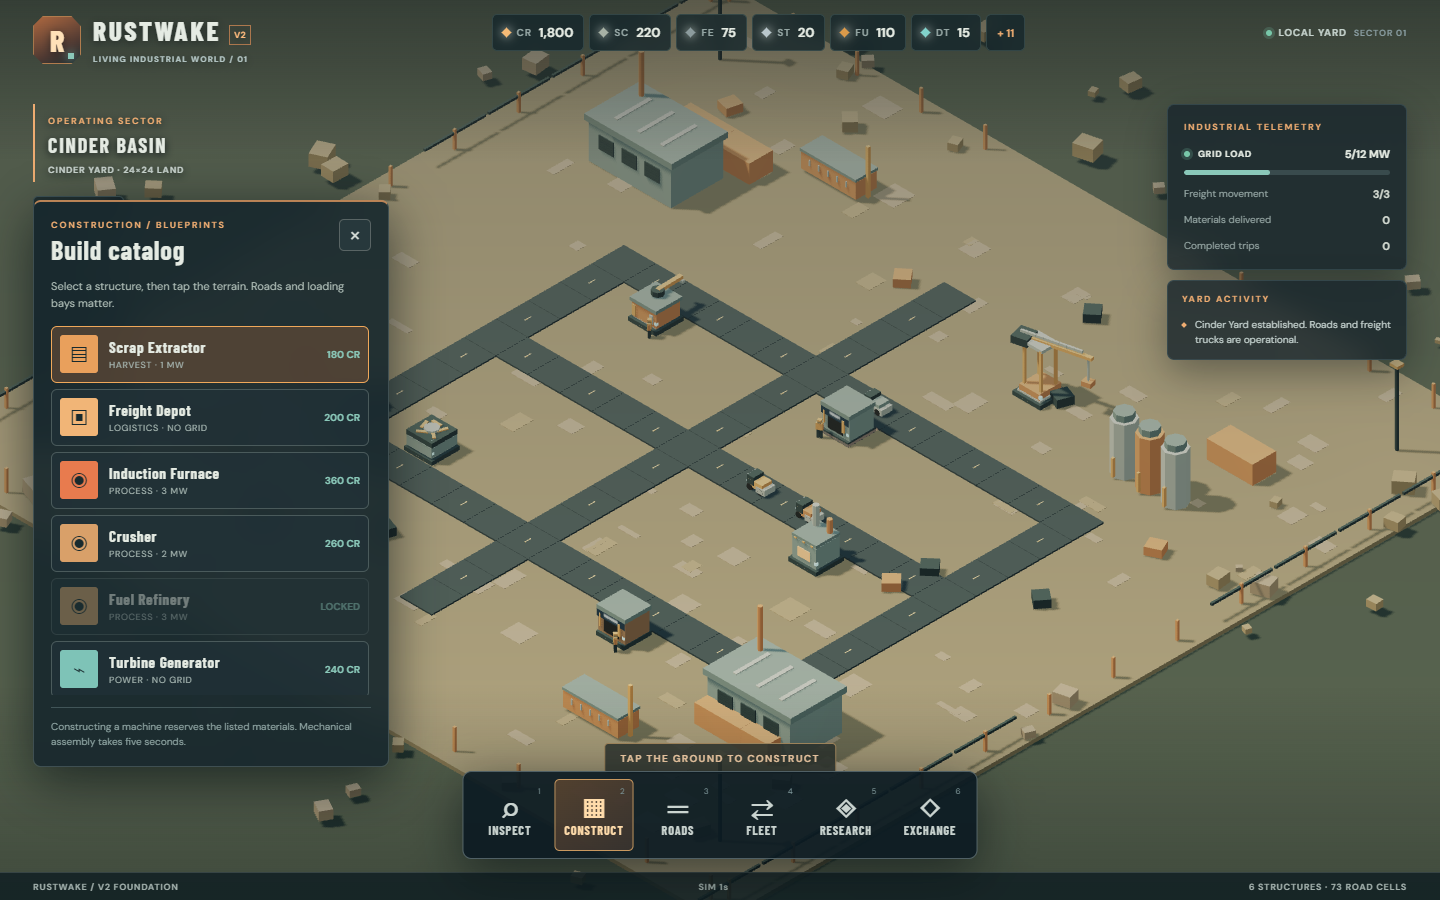
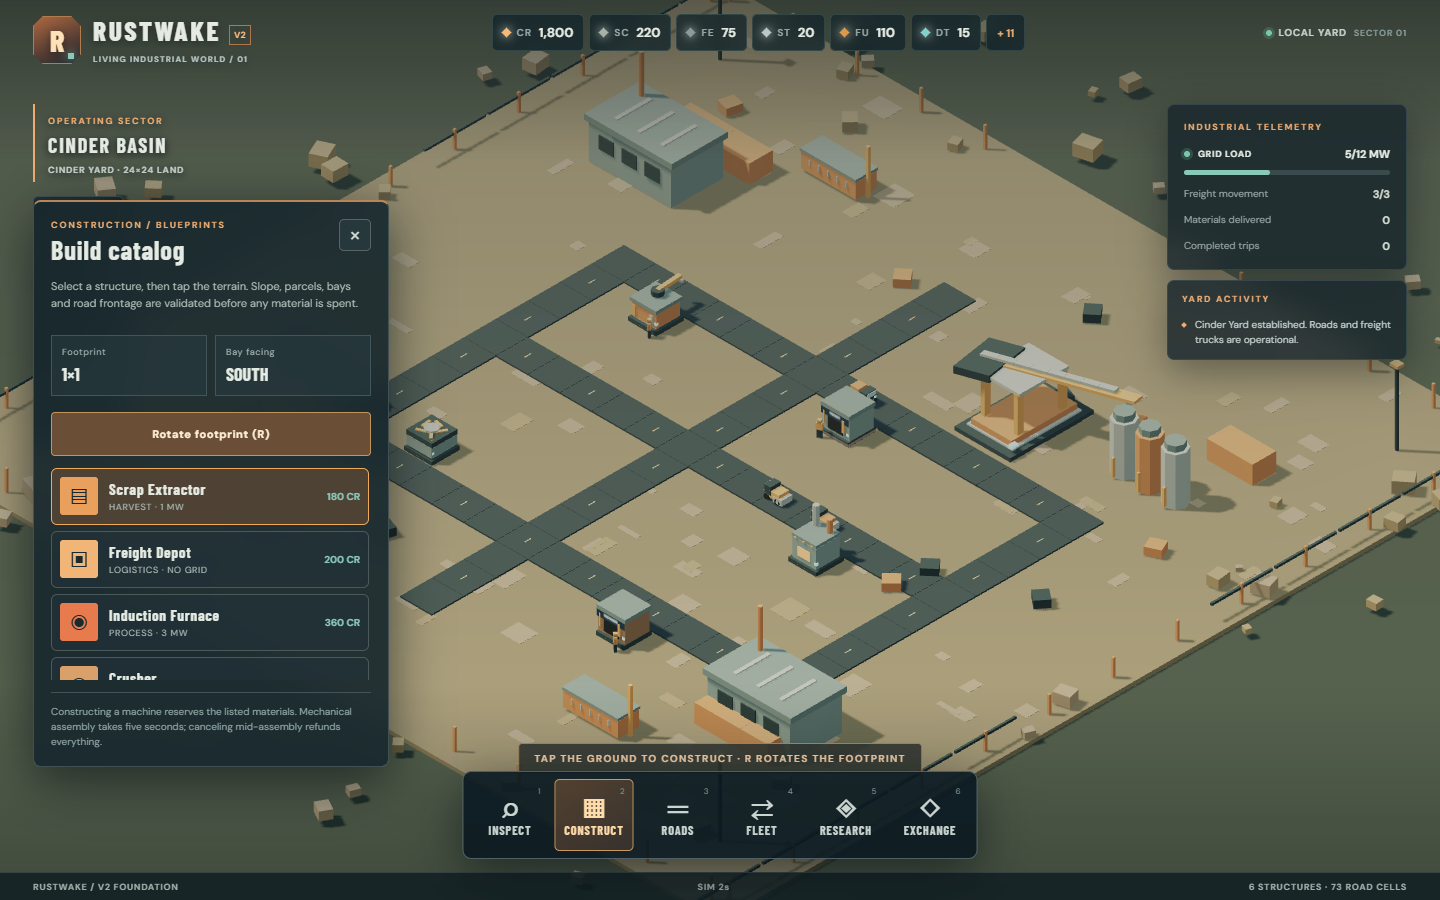
fix(347): integrate #370 footprint scaling into voxel schema after rebase onto e8240a87
Schema geometry fields now describe authored local (unscaled) space; logical
footprints mirror content registry footprintOf() (crane 2x3). Tests measure
local geometry and assert the exact worldFootprint() group transform for all
12 machines x 4 rotations, preserving #528 occupancy and #307 camera intact.
Full suite 48/48; capture-art + capture-v2 green (stamps matched, construction
proof conserved); evidence refreshed.

diff --git a/src/voxelSchema.js b/src/voxelSchema.js
@@ -9,10 +9,13 @@
 //    replaces the playable world with an image and never imports archive/legacy code.
 //
 // Coordinate contract (matches src/camera.js): right-handed, X east, Y up, Z south.
-// A building occupies `footprint.cells` logical cells of CELL world units each; its
-// group origin sits at the cell center on Y=0. Frontage faces +Z (south) toward the
-// loading bay. Pivots are named THREE.Group nodes ("pivot:<id>") owned by the machine.
-import {CELL, WORLD_SIZE, BUILDINGS} from "./content.js";
+// A building occupies `footprint.cells` logical cells of CELL world units each, taken
+// from the content registry footprintOf() (#370, merged in main e8240a87). Per #370 the
+// group sits at the footprint center on Y=0 and is scaled by base w/d; ALL geometry
+// fields below (bounds, pick, pivots, bay) describe the AUTHORED LOCAL (unscaled)
+// geometry, so world envelope = local envelope × footprint.scale. Frontage faces +Z
+// (south) toward the loading bay. Pivots are named THREE.Group nodes ("pivot:<id>").
+import {CELL, WORLD_SIZE, BUILDINGS, footprintOf} from "./content.js";
 
 export const SCHEMA_ID = "rustwake.voxel.geometry.v1";
 export const PARCEL = Object.freeze({cells: [WORLD_SIZE, WORLD_SIZE], world: [WORLD_SIZE * CELL, WORLD_SIZE * CELL]});
@@ -79,7 +82,7 @@ const foot = (height, extra = {}) => {
   };
 };
 
-export const MACHINES = Object.freeze({
+const RAW_MACHINES = {
   salvager: foot(2.285, {
     pickHeight: 2.95,
     bounds: {width: PAD, height: 2.285, depth: PAD},
@@ -215,7 +218,17 @@ export const MACHINES = Object.freeze({
     ],
     budget: {maxMeshes: 24, maxTriangles: 450}
   })
-});
+};
+
+// #370 integration: logical footprints come from the content registry (crane is 2×3;
+// every other initial machine is 1×1). footprint.scale is the base w/d group scale
+// applied by world.js makeBuilding(); geometry fields stay in authored local space.
+export const MACHINES = Object.freeze(Object.fromEntries(Object.entries(RAW_MACHINES).map(([type, d]) => {
+  const fp = footprintOf(type);
+  return [type, Object.freeze({...d, footprint: Object.freeze({
+    ...d.footprint, cells: [fp.w, fp.d], world: [fp.w * CELL, fp.d * CELL], scale: [fp.w, fp.d]
+  })})];
+})));
 
 export const machineDescriptor = (type) => MACHINES[type] || null;
 export const cellCenter = (i) => (i - WORLD_SIZE / 2 + 0.5) * CELL;
@@ -239,16 +252,17 @@ export function validateMachine(type, desc = MACHINES[type]) {
   if (!b || !isNum(b.width) || !isNum(b.height) || !isNum(b.depth) || b.width <= 0 || b.height <= 0 || b.depth <= 0)
     fail(errors, type, "bounds must be positive width/height/depth");
   else {
-    if (b.width > f.world[0] + 1e-9 || b.depth > f.world[1] + 1e-9)
-      fail(errors, type, "static geometry overhangs the logical cell (animated reach is declared separately)");
+    if (b.width > CELL + 1e-9 || b.depth > CELL + 1e-9)
+      fail(errors, type, "static geometry overhangs the authored base cell (animated reach is declared separately)");
     const ratio = b.height / SCALE_REFERENCES.worker.height;
     if (ratio < SCALE_REFERENCES.machineHeightRatio.min || ratio > SCALE_REFERENCES.machineHeightRatio.max)
       fail(errors, type, "height " + b.height + " outside worker scale ratio " + JSON.stringify(SCALE_REFERENCES.machineHeightRatio));
   }
   if (!p || !Array.isArray(p.size) || !Array.isArray(p.center)) fail(errors, type, "pick bounds missing");
   else {
-    if (p.size[0] < f.world[0] - 1e-9 || p.size[2] < f.world[1] - 1e-9)
-      fail(errors, type, "pick bounds smaller than the cell footprint (inaccessible on touch)");
+    // Pick is authored local; the #370 group scale stretches it over the full footprint.
+    if (p.size[0] < CELL - 1e-9 || p.size[2] < CELL - 1e-9)
+      fail(errors, type, "pick bounds smaller than the base cell (inaccessible on touch)");
     if (b && (p.size[0] < b.width - 1e-9 || p.size[1] < b.height - 1e-9 || p.size[2] < b.depth - 1e-9))
       fail(errors, type, "pick bounds must enclose the full static silhouette incl. roof");
     if (p.minProjectedCssPx < 44) fail(errors, type, "pick target below 44 css px accessibility floor");
@@ -257,8 +271,8 @@ export function validateMachine(type, desc = MACHINES[type]) {
   if (!fr || fr.face !== "+z" || !fr.bay) fail(errors, type, "frontage must declare +Z loading bay");
   else {
     const [ox, oz] = fr.bay.offset, [bw, bd] = fr.bay.size;
-    if (Math.abs(ox) + bw / 2 > f.world[0] / 2 + 1e-9 || Math.abs(oz) + bd / 2 > f.world[1] / 2 + 1e-9)
-      fail(errors, type, "loading bay outside footprint");
+    if (Math.abs(ox) + bw / 2 > CELL / 2 + 1e-9 || Math.abs(oz) + bd / 2 > CELL / 2 + 1e-9)
+      fail(errors, type, "loading bay outside the authored base cell");
     if (bw < SCALE_REFERENCES.truck.width - 1e-9) fail(errors, type, "bay narrower than a truck");
   }
   for (const pv of desc.pivots || []) {

diff --git a/docs/design/VOXEL_GEOMETRY.md b/docs/design/VOXEL_GEOMETRY.md
@@ -18,7 +18,8 @@ Status: describes and validates the LIVE procedural geometry in `src/world.js`. 
 - Right-handed axes: **X east, Y up, Z south** (matches `src/camera.js`).
 - Logical parcel: **24 × 24 hidden cells**, `CELL = 3.5` world units → 84 × 84 world units.
 - Cell origin: `origin(i) = (i − 24/2 + 0.5) × 3.5`; `cellCenter(i)` is exported by the schema.
-- Every initial machine occupies exactly **1 × 1 cells**; group origin sits at cell center on Y = 0.
+- Logical footprints come from the content registry `footprintOf()` (**#370**, merged in main `e8240a87`): 11 initial machines are **1 × 1 cells**; the crane is **2 × 3**. Per #370 the group sits at the footprint center on Y = 0, rotated `rot × 90°` and scaled by base w/d.
+- **All schema geometry fields (bounds, pick, pivots, bay) are authored LOCAL (unscaled) space.** World envelope = local envelope × `footprint.scale`; the invisible pick volume scales with the group and covers the whole footprint. `tests/voxelSchema.test.mjs` measures local geometry AND asserts the exact `worldFootprint()` transform for all 12 machines × 4 rotations.
 - **Frontage faces +Z (south)**: ground loading bay `port:loading-bay` at offset `[0, 1.295]`, size 1.22 × 0.42, y 0.11; status beacon `status:light` at `[1.28, 0.95, 1.25]`.
 - Orthographic frustum vertical span = `80 / zoom` (camera contract; camera math and PR #307 observability stamps are untouched by this schema).
 
@@ -55,9 +56,9 @@ Pick volume = full logical cell (3.5 × pickHeight × 3.5), enclosing the static
 
 Picking itself is a ground-plane cell raycast, so the whole cell is targetable at any zoom; the 44 px floor is the declared comfort target, published via `minZoomForPick()` rather than silently claimed.
 
-## Machine validation table (all 12 initial machines, 1×1 cells)
+## Machine validation table (all 12 initial machines; bounds in authored local space)
 
-Bounds are pad-inclusive static envelopes (W × H × D, world units); pick H encloses animated poses. Validated by `validateAllMachines()` AND by measuring real `THREE.Box3` envelopes in `tests/voxelSchema.test.mjs` (tolerance 0.02).
+Bounds are pad-inclusive static envelopes (W × H × D, local world units before the #370 footprint scale); pick H encloses animated poses. Validated by `validateAllMachines()` AND by measuring real `THREE.Box3` envelopes in `tests/voxelSchema.test.mjs` (tolerance 0.02).
 
 | Machine | Footprint | Static bounds | Pick H | Pivot (motion, swingRadius) | Budget meshes/tris |
 |---|---|---|---|---|---|
@@ -69,12 +70,12 @@ Bounds are pad-inclusive static envelopes (W × H × D, world units); pick H enc
 | foundry | 1×1 | 3.045 × 4.55 × 3.045 | 4.55 | group pulse (amp 0.009, speed 5) | 24 / 500 |
 | crusher | 1×1 | 3.045 × 2.34 × 3.045 | 2.34 | static | 24 / 500 |
 | refinery | 1×1 | 3.045 × 2.34 × 3.045 | 2.34 | static | 24 / 500 |
-| crane | 1×1 | 3.045 × 5.09 × 3.045 | 5.60 | crane (oscillate, 4.8) | 32 / 600 |
+| crane | 2×3 | 3.045 × 5.09 × 3.045 | 5.60 | crane (oscillate, 4.8) | 32 / 600 |
 | turret | 1×1 | 3.045 × 3.42 × 3.045 | 3.42 | rotate (spin, 2.3) | 20 / 400 |
 | fabricator | 1×1 | 3.045 × 3.05 × 3.045 | 3.05 | static | 24 / 400 |
 | research | 1×1 | 3.045 × 4.925 × 3.045 | 4.92 | static | 24 / 450 |
 
-Validation rules enforced per descriptor: integer footprint within 24×24; `footprint.world = cells × 3.5`; static bounds ≤ cell; worker height ratio; pick ≥ cell and enclosing static silhouette with ≥44 px declared floor; +Z bay inside footprint and ≥ truck width; pivot naming/axis/motion/offset within envelope (`y ≤ height + 0.5`); swingRadius ≤ 5.25; registered materials; budgets ≤ global limits. 18 negative descriptors (oversize footprint, overhang, sub-cell pick, narrow bay, misnamed pivot, out-of-envelope offset, excessive reach, unregistered material, over-budget, missing descriptor…) are asserted rejected in tests.
+Validation rules enforced per descriptor: integer footprint within 24×24 mirroring `footprintOf()`; `footprint.world = cells × 3.5`; static bounds ≤ base cell; worker height ratio; pick ≥ base cell and enclosing static silhouette with ≥44 px declared floor; +Z bay inside the base cell and ≥ truck width; pivot naming/axis/motion/offset within envelope (`y ≤ height + 0.5`); swingRadius ≤ 5.25; registered materials; budgets ≤ global limits. 18 negative descriptors (oversize footprint, overhang, sub-cell pick, narrow bay, misnamed pivot, out-of-envelope offset, excessive reach, unregistered material, over-budget, missing descriptor…) are asserted rejected in tests.
 
 ## Performance limits
 
@@ -98,11 +99,11 @@ Shared unit BoxGeometry + shared material pool; no per-mesh geometry allocation.
 
 ## Reproducible evidence
 
-- Tests: `node --test tests/*.test.mjs` — 25 pass (13 new in `tests/voxelSchema.test.mjs`: schema/token identity, real Box3 envelopes, pick enclosure, frontage/truck fit, pivot offsets/axes/motion, material registry, scale references, budgets, 44 px projection, negative descriptors, staging).
+- Tests: `node --test tests/*.test.mjs` — 48 pass (14 in `tests/voxelSchema.test.mjs`: schema/token identity, real Box3 envelopes, #370 worldFootprint transform integration (12 machines × 4 rotations), pick enclosure, frontage/truck fit, pivot offsets/axes/motion, material registry, scale references, budgets, 44 px projection, negative descriptors, staging; plus camera, gridOccupancy, simulation and verify-live suites from main).
 - Capture: `npm run build && node scripts/capture-art.mjs` → `artifacts/art-01/` (`desktop-world.png`, `desktop-detail.png` near-zoom pivots/bay/worker/truck, `desktop-negative-ghost.png`, `desktop-negative-toast.png`, `phone-world.png`, `phone-negative-toast.png`, `report.json` with the full validation table and camera poses). The run for this PR is committed at `docs/evidence/347-art-01/`. One headless Chromium/SwiftShader, production vite preview; phone view is emulated, not a physical handset (#275).
 - Gates: `npm run validate`, `node scripts/check-design-contract.mjs` (PASS: 13 assets / 20 world tokens), `node scripts/check-studio-docs.mjs` (PASS).
 - **No code-author art self-acceptance**: numeric capture status is `PASS_NUMERIC_ONLY`. Independent reviewer + product verdict on the immutable PR head, then sponsor G1 (#276) on the deployed build, are required before any art-parity claim.
 
 ## Concurrency boundaries respected
 
-Camera math and PR #307 `applyCamera` stamps unchanged (#337 owns `src/cameraInput.js` / `src/camera.js`); `src/simulation.js` untouched (#370 lease); `scripts/capture-v2.mjs`, `docs/city/*`, city scripts and `ci.yml` untouched (#526). `scripts/capture-art.mjs` is a new, separate capture entry point.
+Rebased onto main `e8240a87` after #528 BLD-01 merged: camera math and PR #307 `applyCamera`/`stampCamera` are byte-identical to main (#337 owns `src/cameraInput.js` / `src/camera.js`); #370 occupancy (`src/gridOccupancy.js`, `src/simulation.js`, footprint pivots/AABB in `src/world.js`, rotate/cancel UI, `scripts/capture-v2.mjs` construction proof) is preserved intact — this schema integrates with it via registry footprints and local-space geometry fields. `scripts/capture-art.mjs` is a new, separate capture entry point.
